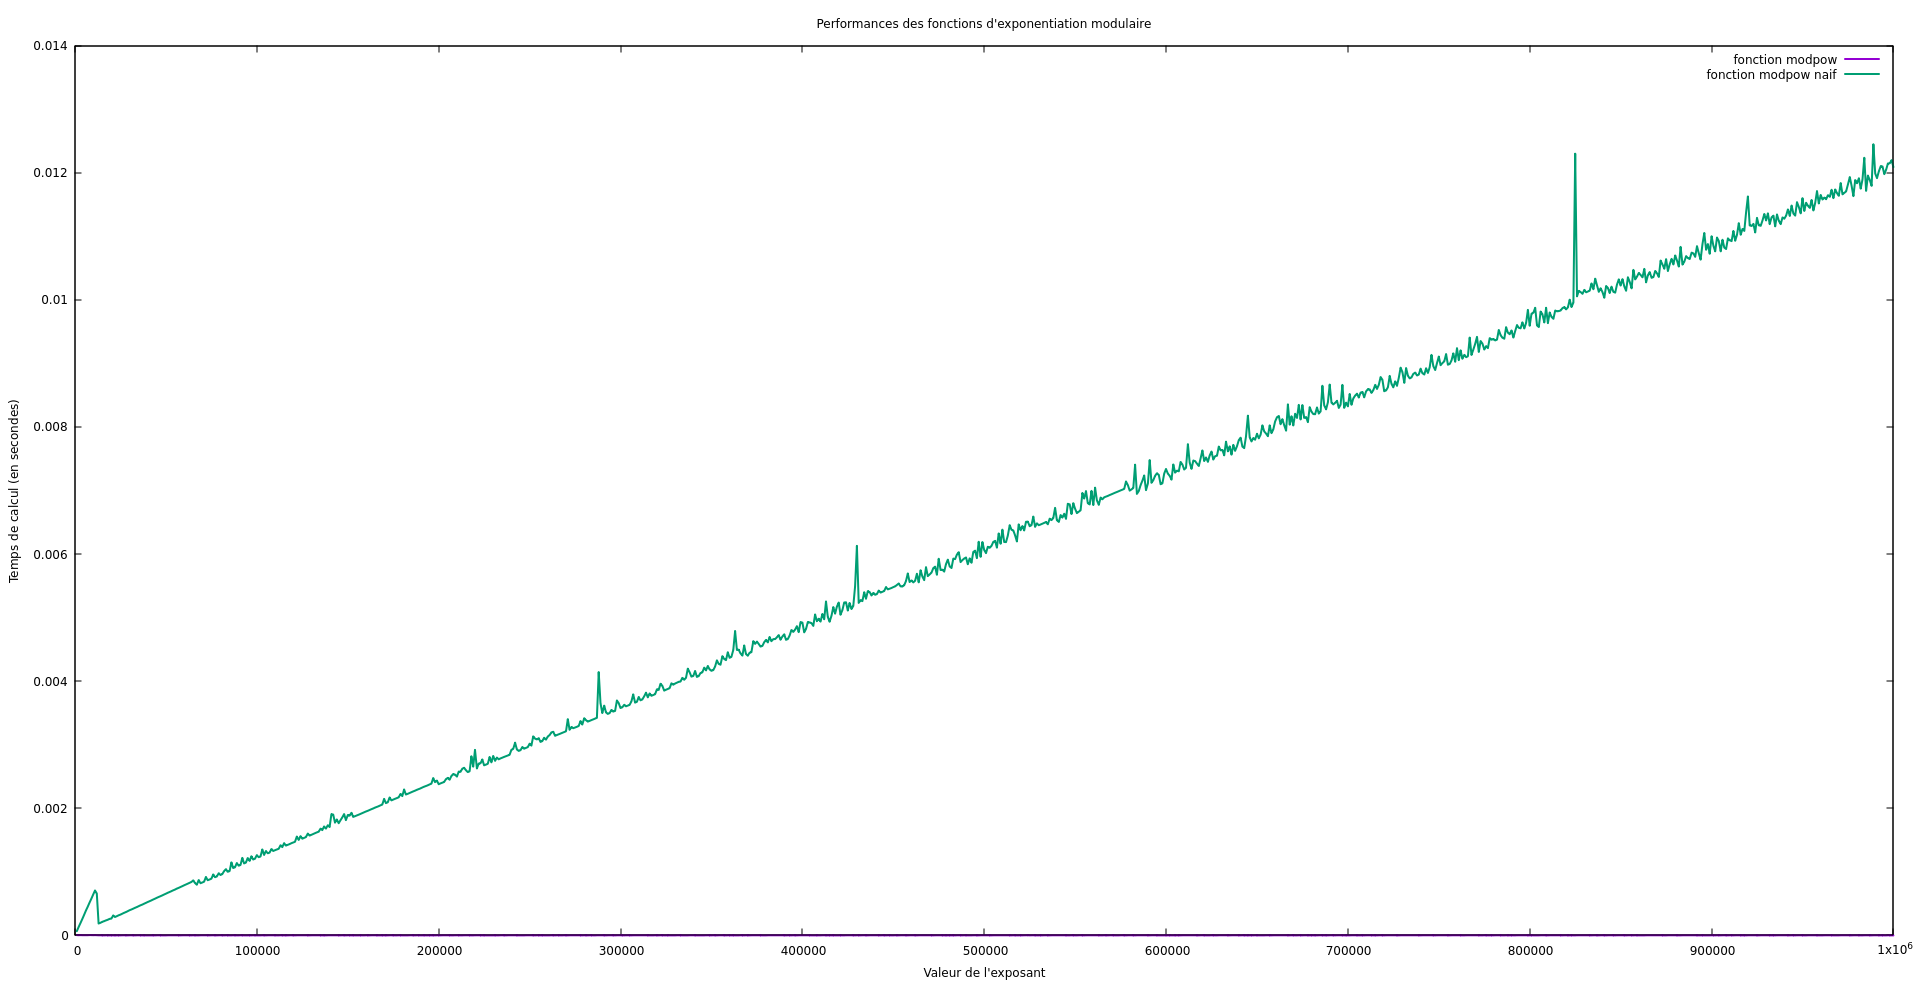
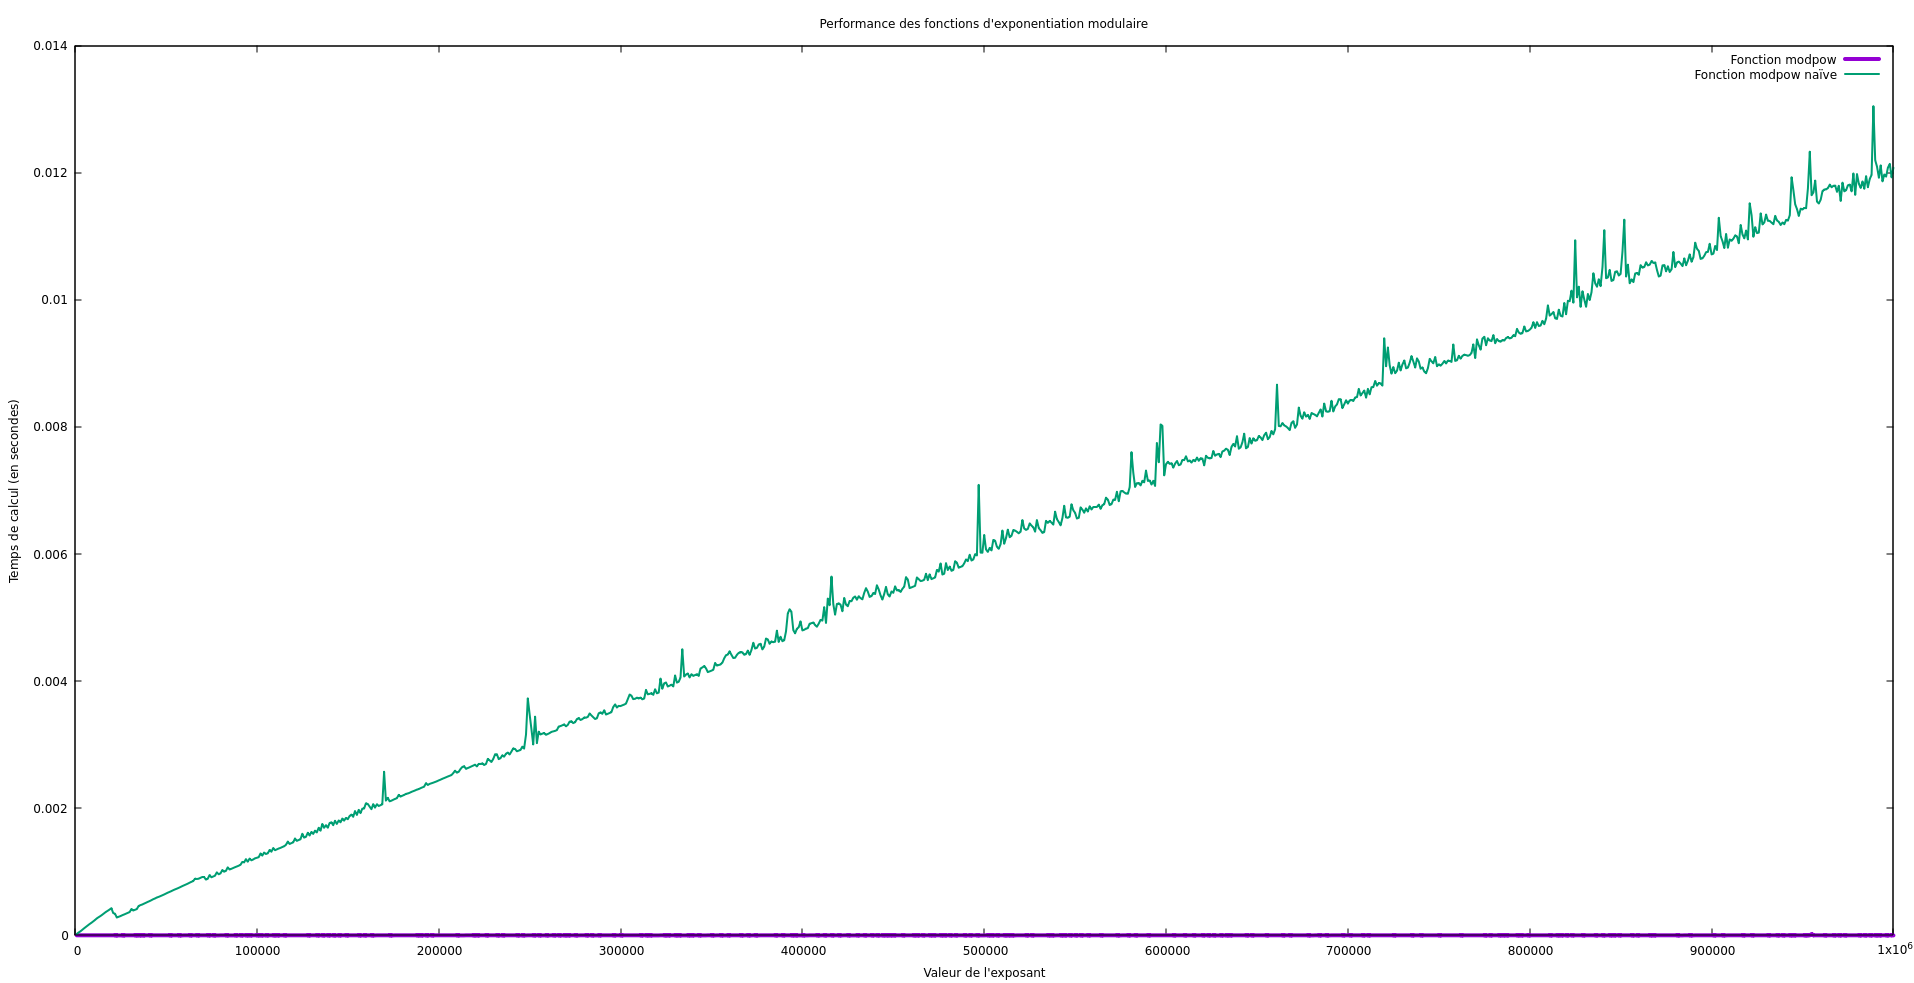
End of project

diff --git a/main9.c b/main9.c
@@ -7,11 +7,16 @@ int main(int argc, char const *argv[]) {
     srand(time(NULL));
 
     system("rm -f ./blockchain/*");
-    generate_random_data(NBVOTERS, NBCANDIDATES);
 
+    printf("Generating random data... "); fflush(stdout);
+    generate_random_data(NBVOTERS, NBCANDIDATES);
+    printf("done.\n");
+
+    printf("Reading files... "); fflush(stdout);
     CellProtected* votes = read_protected("declarations.txt");
     CellKey* keys = read_public_keys("keys.txt");
     CellKey* candidates = read_public_keys("candidates.txt");
+    printf("done.\n");
 
     CellProtected* votes_copy = votes;
     CellTree* tree = NULL;
@@ -19,6 +24,7 @@ int main(int argc, char const *argv[]) {
     int count = 0, file_number = 0;
     char file_name[16];
 
+    printf("Building tree... "); fflush(stdout);
     while (votes != NULL) {
         submit_vote(votes->data);
 
@@ -34,7 +40,7 @@ int main(int argc, char const *argv[]) {
 
             free_all_protected_in_tree(tree);
             free_all_authors_in_tree(tree);
-            delete_tree(tree, 0);
+            delete_tree(tree);
 
             tree = read_tree();
         }
@@ -52,16 +58,21 @@ int main(int argc, char const *argv[]) {
 
         free_all_protected_in_tree(tree);
         free_all_authors_in_tree(tree);
-        delete_tree(tree, 0);
+        delete_tree(tree);
 
         tree = read_tree();
     }
+    printf("done.\n");
 
+    int should_print;
+    printf("\nPrint tree ? (0: No, 1: Yes) ");
+    scanf(" %d", &should_print);
+    if (should_print) print_tree(tree);
 
-    print_tree(tree);
     printf("\n");
 
     Key* winner = compute_winner_BT(tree, candidates, keys, NBCANDIDATES, NBVOTERS);
+
     if (winner != NULL) {
         printf("Winner: (%lx, %lx)\n", winner->val, winner->n);
         free(winner);
@@ -70,9 +81,7 @@ int main(int argc, char const *argv[]) {
     // Freeing tree
     free_all_authors_in_tree(tree);
     free_all_protected_in_tree(tree);
-
-    delete_tree(tree, 0);
-    
+    delete_tree(tree);
 
     // Freeing voters, candidates and votes 
     delete_list_protected(votes_copy);

diff --git a/main1.c b/main1.c
@@ -1,7 +1,7 @@
 #include "exercice1.h"
 
 int main(int argc, char const *argv[]) {
-    printf("Entering test main. Uncomment parts you want to test. No output = everything under comment.\n\n");
+    printf("Entering test main. Uncomment the part you want to test. No output = everything under comment.\n\n");
     clock_t debut, fin;
     debut = 0; fin = 0;
 
@@ -26,36 +26,37 @@ int main(int argc, char const *argv[]) {
     // printf("Premier : %ld\n", p);
 
 // 1.5 :
-    // double t1, t2;
+    double t1, t2;
 
-    // FILE* file = fopen("benchmarks.txt", "w");
+    FILE* file = fopen("benchmarks.txt", "w");
 
-    // for (int i = 1000; i <= 1000000; i += 1000) {
-    //     debut = clock();
-    //     modpow(2147481647, i, 34694);
-    //     fin = clock();
-    //     t1 = (double) (fin - debut) / CLOCKS_PER_SEC;
+    for (int i = 1000; i <= 1000000; i += 1000) {
+        debut = clock();
+        modpow(2147481647, i, 34694);
+        fin = clock();
+        t1 = (double) (fin - debut) / CLOCKS_PER_SEC;
 
-    //     debut = clock();
-    //     modpow_naif(2147481647, i, 34694);
-    //     fin = clock();
-    //     t2 = (double) (fin - debut) / CLOCKS_PER_SEC;
+        debut = clock();
+        modpow_naif(2147481647, i, 34694);
+        fin = clock();
+        t2 = (double) (fin - debut) / CLOCKS_PER_SEC;
 
-    //     fprintf(file, "%d %lf %lf\n", i, t1, t2);
+        fprintf(file, "%d %lf %lf\n", i, t1, t2);
 
-    //     if (i % 100 == 0) printf("%d\n", i);
-    // }
+        if (i % 100 == 0) printf("%d\n", i);
+    }
 
-    // fclose(file);
+    fclose(file);
 
 // 1.8 :
-     srand(time(NULL));
+     // srand(time(NULL));
 
-     debut = clock();
-     long random = random_prime_number(15, 20, 10);
-     fin = clock();
+     // debut = clock();
+     // long random = random_prime_number(15, 20, 10);
+     // fin = clock();
 
-     printf("Random prime number: %ld (%lfs)\n", random, (double) (fin - debut) / CLOCKS_PER_SEC);
+     // printf("Random prime number: %ld (%lfs)\n", random, (double) (fin - debut) / CLOCKS_PER_SEC);
+
 
     return 0;
 }

diff --git a/exercice8.c b/exercice8.c
@@ -60,25 +60,19 @@ void print_tree(CellTree* tree) {
 }
 
 
-void delete_node(CellTree* node, int full) {
-    if (full) fully_delete_block(node->block);
-    else delete_block(node->block);
-
+void delete_node(CellTree* node) {
+    delete_block(node->block);
     free(node);
 }
 
 
-void delete_tree(CellTree* node, int full) {
+void delete_tree(CellTree* node) {
     if (node == NULL) return;
 
-    delete_tree(node->nextBro, full);
+    delete_tree(node->nextBro);
+    delete_tree(node->firstChild);
 
-    while (node != NULL) {
-        CellTree* temp = node;
-        node = node->firstChild;
-        delete_node(temp, full);
-    }
-    // delete_tree(node->firstChild, full);
+    delete_node(node);
 }
 
 

diff --git a/exercice1.c b/exercice1.c
@@ -97,7 +97,7 @@ long random_prime_number(int low_size, int up_size, int k) {
     long pivot = rand_long(min, max);  // Take a random integer in the interval
 
     // Iterating upwards to the first prime number found starting from the pivot
-    for (long i = pivot; i <= max; i += (i & 1 ? 2 : 1)) {  // Checking only odd numbers
+    for (long i = pivot; i <= max; i += (i & 1 ? 2 : 1)) {  // (i & 1 ? 2 : 1) ensures checking only odd numbers
         if (is_prime_miller(i, k)) return i;
     }
 

diff --git a/main3.c b/main3.c
@@ -44,11 +44,8 @@ int main(int argc, char const *argv[]) {
 
     Protected *pr = init_protected(pKey, msg, sig2);
 
-    if (verify(pr)) {
-      printf("Signature valide.\n");
-    } else {
-      printf("Signature non valide.\n");
-    }
+    if (verify(pr)) printf("Signature valide.\n");
+    else printf("Signature non valide.\n");
 
     char* chaine3 = protected_to_str(pr);
     printf("protected_to_str: %s\n", chaine3);

diff --git a/exercice8.h b/exercice8.h
@@ -17,9 +17,9 @@ int update_height(CellTree*, CellTree*);
 
 void add_child(CellTree*, CellTree*);
 
-void delete_node(CellTree*, int);
+void delete_node(CellTree*);
 
-void delete_tree(CellTree*, int);
+void delete_tree(CellTree*);
 
 void print_tree(CellTree*);
 

diff --git a/main8.c b/main8.c
@@ -42,7 +42,7 @@ int main() {
 
     free(b->author);
     free(b2->author);
-    delete_tree(t, 0);
+    delete_tree(t);
 
     return 0;
 }

diff --git a/Readme.md b/Readme.md
@@ -11,7 +11,8 @@ Ce projet cherche à reproduire un système de vote électronique sécurisé qui
 1. [Structures utilisées](###structures-utilisées)
 1. [Jeux de test](###jeux-de-test)
 1. [Réponses aux questions](###réponses-aux-questions)
-1. 
+1. [Algorithmes notables](###algorithmes-notables)
+1. [Conclusion](###conclusion)
 
 
 
@@ -64,7 +65,7 @@ typedef struct {
 } Key;
 ```
 
-`Key` contient une valeur `val` unique à la clef et `n` commune à la paire privée/publique.
+`Key` contient une valeur `val` unique à la clef et une valeur `n` commune à la paire privée/publique.
 
 ```c
 typedef struct {
@@ -127,7 +128,7 @@ typedef struct {
 
 * `main1.c` teste de performance des fonctions mathématiques ;
 * `main2.c` crée un couple de valeurs clefs, les affiches, puis encode et décode une chaîne de caractère ;
-* `main3.c` crée deux couple de clef et les convertit en chaîne de caractère. Ces clef sont  ensuite utilisées pour créé une signature qui est ensuite affichée et convertie en chaîne de caractères. Cette chaîne est ensuite reconvertit en signature pour vérifier la réversibilité de l'opération. Enfin, la protection des signature est testée ;
+* `main3.c` crée deux couple de clef et les convertit en chaîne de caractère. Ces clef sont  ensuite utilisées pour créer une signature qui est affichée et convertie en chaîne de caractères. Cette chaîne est alors reconvertie en signature pour vérifier la réversibilité de l'opération. Enfin, la protection de signature est testée ;
 * `main4.c` teste la fonction `generate_random_data` qui génère des votants, des candidats parmi eux et les déclarations de votes. Chacun des votants vote pour un candidat aléatoire. Ces données sont ensuite écrites dans les fichiers `keys.txt`, `candidates.txt` et `declaration.txt` respectivement ;
 * `main5.c` affiche les fichiers `keys.txt` et `declaration.txt` générés précédemment, puis supprime toutes les déclarations invalides et les affiche après correction ;
 * `main6.c` génère des votants et des candidats dans des fichier comme expliqué précédemment. On extrait ensuite les données des fichiers et on les vérifie. A partir des données vérifiées, on calcule et affiche le vainqueur de l'élection ;
@@ -140,12 +141,89 @@ typedef struct {
 
 ### Réponses aux questions
 
-1. La complexité de la fonction `is_prime_naif` est $O(p)$.
-2. Le plus petit nombre premier calculé en 2 millisecondes ou plus est $318683$.
-3. La complexité de la fonction `modpow_naif` est $O(m)$.
+  <u>**1.1.**</u> La complexité de la fonction `is_prime_naif` est $O(p)$.
 
-5. Performances des fonctions d'exponentiation modulaire :
+  <u>**1.2.**</u> Le plus petit nombre premier calculé en 2 millisecondes ou plus est $318683$.
 
-![image-20220328194609462](./graph.png)
+  <u>**1.3.**</u>  La complexité de la fonction `modpow_naif` est $O(m)$.
 
-On voit clairement l'efficacité supérieure du `modpow` non naïf en termes de temps de calcul de $a^m \text{ mod } n$ lorsque $m$ devient très grand (pour $a=2147481647$ et $n=34694$).
+  <u>**1.4.**</u>  Performances des fonctions d'exponentiation modulaire :
+
+![graph](./graph.png)
+
+On voit clairement l'efficacité supérieure du `modpow` non naïf (courbe violette sur l'axe des abscisses) en termes de temps de calcul de $a^m \text{ mod } n$ lorsque $m$ devient très grand (pour $a=2147481647$ et $n=34694$).
+
+  <u>**7.8.**</u> Performances du calcul de la *proof of work* :
+
+![graph2](./graph2.png)
+
+L'axe des ordonnées est en échelle logarithmique. On voit qu'ici, nul besoin d'en "déduire" le point à partir duquel le temps de calcul dépasse la seconde, il suffit de le lire : à partir de $d = 5$. La courbe semble plus ou moins linéaire. Étant donnée l'échelle logarithmique, cela signifie une augmentation exponentielle.
+
+  <u>**8.8.**</u> La fonction `fusion_chaines` a une complexité en $O(n)$. On pourrait atteindre une complexité en $O(1)$ en utilisant une structure de listes doublement chaînées.
+
+
+
+### Algorithmes notables
+
+La majorité des fonctions de ce projet sont codées de manière à être suffisamment claires pour ne pas nécessiter d'explication (variables explicites, commentaires ponctuels). Néanmoins, certains algorithmes utilisés peuvent tout de même nécessiter une explication synthétique. Bien que ces fonctions sont particulièrement commentées, il peut être utile d'expliquer l'idée derrière le programme.
+
+* `random_prime_number` part du [postulat de Bertrand](https://fr.wikipedia.org/wiki/Postulat_de_Bertrand). Elle prend un entier dans l'intervalle donné (entre deux puissances de 2), puis parcourt cet intervalle de manière croissante jusqu'à trouver un nombre premier. Si aucun nombre n'a été trouvé, la fonction retourne au nombre sélectionné aléatoirement et parcourt l'intervalle vers le bas.
+
+  ```c
+  long random_prime_number(int low_size, int up_size, int k) {
+      long min = pow(2, low_size), max = pow(2, up_size);
+  
+      long pivot = rand_long(min, max);  // Take a random integer in the interval
+  
+      // Iterating upwards to the first prime number found starting from the pivot
+      for (long i = pivot; i <= max; i += (i & 1 ? 2 : 1)) {  // (i & 1 ? 2 : 1) ensures checking only odd numbers
+          if (is_prime_miller(i, k)) return i;
+      }
+  
+      // If nothing found, iterating downwards in the interval
+      for (long i = pivot; i >= min; i -= (i & 1 ? 2 : 1)) {
+          if (is_prime_miller(i, k)) return i;
+      }
+  
+      // Should never trigger (the interval should always have prime numbers)
+      printf("Pas de nombre premier dans l'intervalle donné.\n"); return -1;
+  }
+  ```
+
+* `supprimer_invalides` vérifie d'abord la validité de la liste chaînée à l'exception du premier élément. Cet élément est vérifié manuellement après cela. Cela permet de simplifier le code de la fonction et ne pas avoir à faire des cas spéciaux dans sa structure, tout en gardant une simplicité à la lecture et exactement le même résultat pour des performances identiques.
+
+  ```c
+  void supprimer_invalides(CellProtected** l) {
+      /* Removes and frees all invalid protected from the list */
+  
+      CellProtected* copie = *l;
+  
+      if (copie == NULL) return;
+  
+      // We will check the first elemement at the end
+      while (copie->next != NULL) {
+          if (!verify(copie->next->data)) {
+              CellProtected* temp = copie->next;
+              copie->next = copie->next->next;
+              delete_cell_protected(temp);
+          } else {
+              copie = copie->next;
+          }
+      }
+  
+      copie = *l;
+  
+      // Checking the first element
+      if (!verify(copie->data)) {
+          *l = copie->next;
+          delete_cell_protected(copie); 
+      }
+  }
+  ```
+
+
+
+### Conclusion
+
+En conclusion, un système de vote électronique par *blockchain* est utile sur plusieurs points. D'abord parce que cela permet un vote à distance, ce qui peut effectivement participer à réduire l'abstention et à augmenter la confiance en la légitimité de l'élection. En effet, par la décentralisation, chacun possède copie ou partie de la *blockchain* sur son ordinateur. Il est très difficile de frauder dans une élection pareille, car il faudrait alors contrôler plus de 50% des éléments du réseau de la *blockchain* pour valider un vote frauduleux. Néanmoins, dans un cadre comme ici, il existe tout de même des moyens de falsifier une élection (comme de noyer de faux votes la *blockchain* juste avant la fermeture des votes). Par ailleurs, une *blockchain* telle que nous l'avons implémentée ici empêche l'anonymat des votes. C'est donc un outil très utile, mais qui possède ses limites.
+
